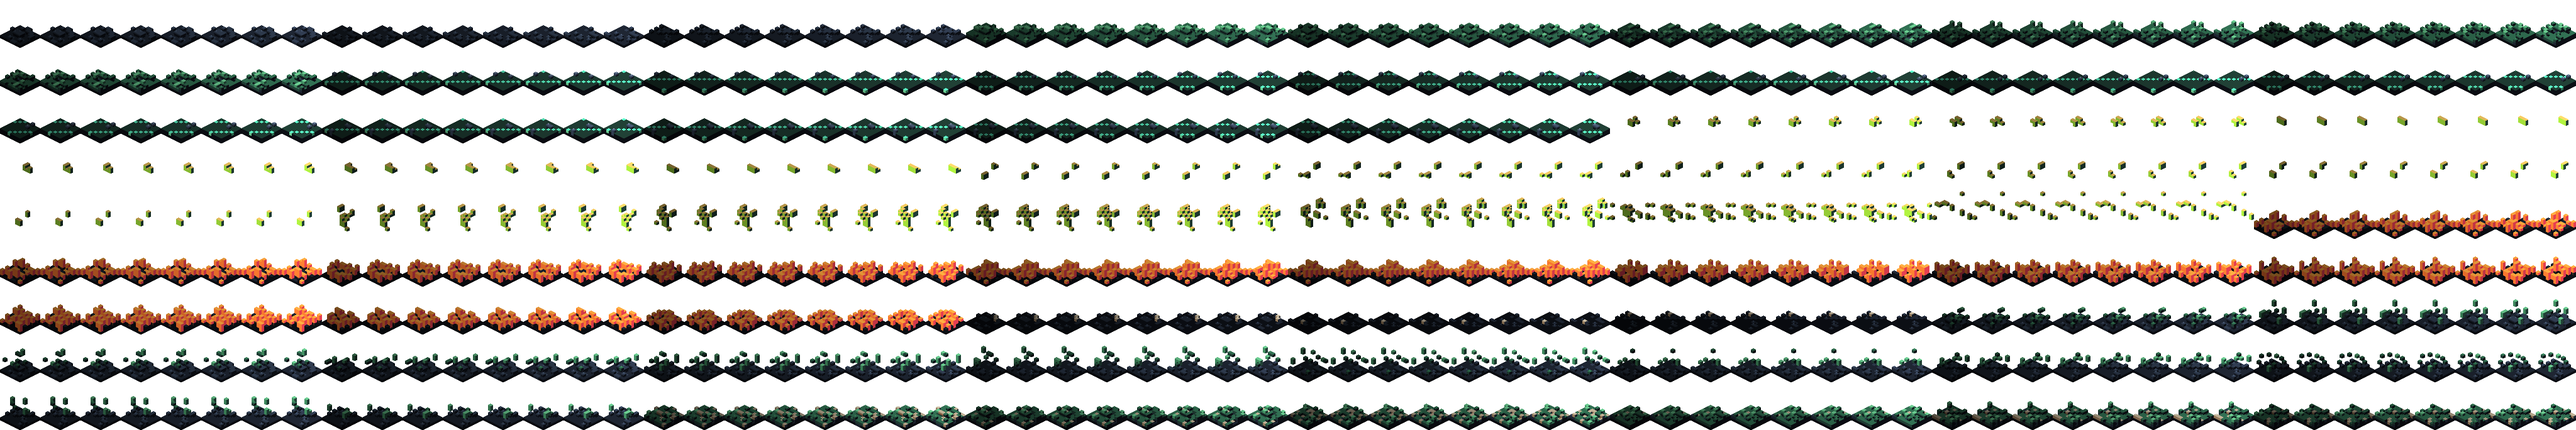
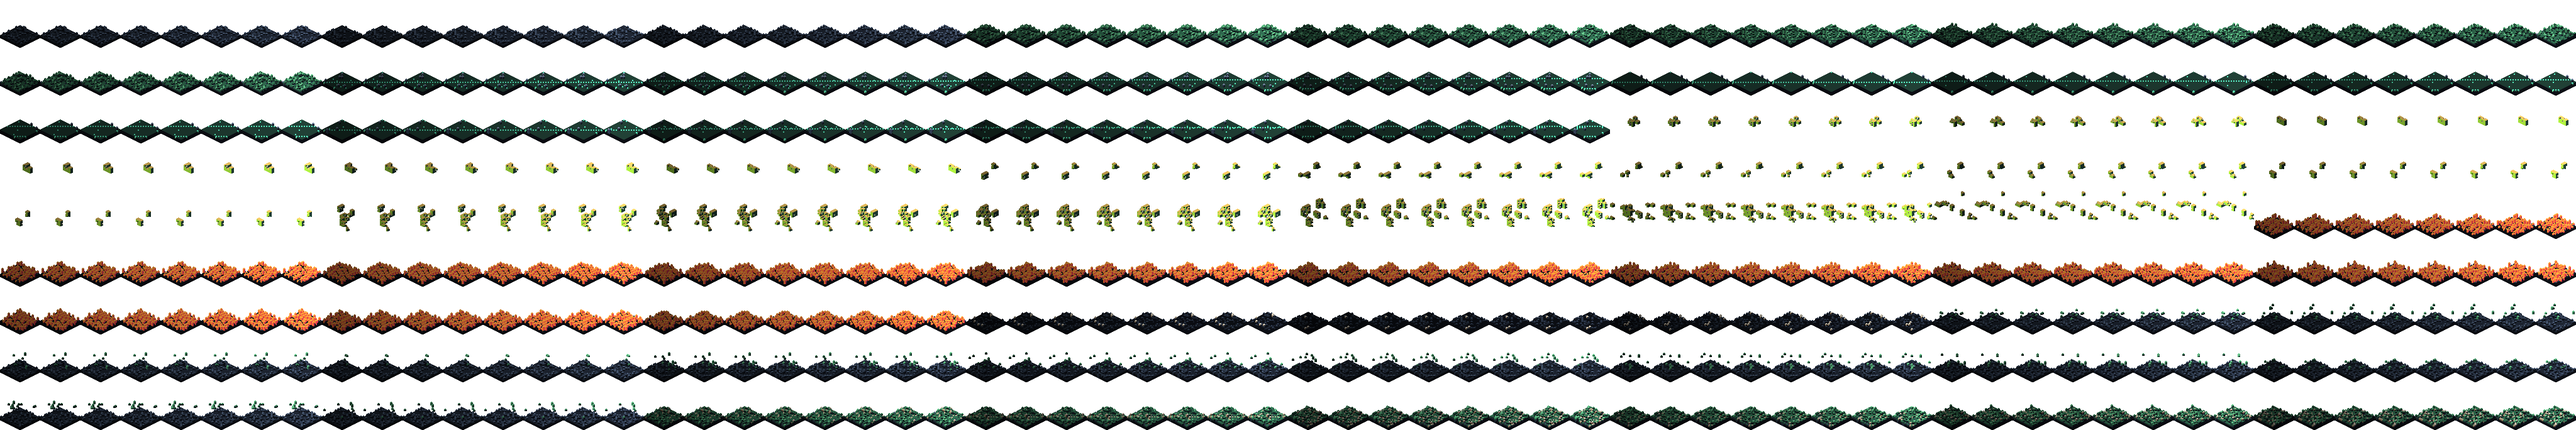
Crostas de chao na grade fina, e a poca ganha bolhas e gotejamento
As cinco materias do chao ainda estavam na densidade antiga: a
subdivisao automatica so engordava cada voxel autorado em 2x2x2 do
mesmo material, sem ganhar textura. Agora sao construidas coluna a
coluna FINA (16x16 por tile), como o terreno:

- Laje: cascalho de meio voxel, o dobro da frequencia; topo na mesma
  altura autorada (entidades assentam onde sempre assentaram).
- Tapete fungico (e o aquecido): musgo de graos 0.5 com pontos vivos
  pulsando; as falhas do tapete ficam finas.
- Poca de biofluido: a lamina vira FILME de meio voxel com reflexo em
  faixa fina e BOLHAS — pontos de biolum que acendem dois quadros e
  estouram, sorteados por coluna fina, no proprio nivel da lamina (o
  contrato "liquido acha nivel unico" e testado e continua valendo).
- Fogo: linguas finas de meio voxel, mais numerosas na mesma massa —
  chama e o que mais ganha com o grao novo.
- Esporos: graos 0.5 recalibrados por medida (modulo 59, contagem
  medida em [4, 14] contra o contrato [3, 16]).
- Gas: excecao deliberada — o algoritmo de sopros continua na grade
  autorada (forma, deriva e cobertura tem contrato de teste nela) e
  cada cubo escolhido vira um aglomerado fino com ~1/5 dos sub-voxels
  roidos por hash: borda esfarrapada, sem tocar na coreografia.

E o gotejamento pedido: parte das celulas de poca (hash) pinga do teto
da caverna — gota que cai acelerando, respingo que salta e dois aneis
concentricos abrindo na lamina. Deterministico por celula e relogio,
[…]

diff --git a/packages/voxelyn-survival/src/client/render.ts b/packages/voxelyn-survival/src/client/render.ts
@@ -1511,6 +1511,30 @@ export class SurvivalRenderer {
       });
     }
 
+    // GOTEJAMENTO DA POCA: goticulas de biofluido caem do teto da caverna
+    // sobre a lamina e abrem ondulacoes concentricas. Deterministico por
+    // celula e relogio — nenhum estado, nenhuma particula: a queda, o respingo
+    // e os aneis saem da fase do ciclo, e cada celula pingante tem ciclo e
+    // ponto proprios (hash). Entra na fila ordenada porque a gota cai ALTO e
+    // precisa ser ocultada por paredes como qualquer corpo.
+    for (let y = y0; y <= y1; y++) {
+      for (let x = x0; x <= x1; x++) {
+        const i = y * w + x;
+        if (state.solid[i] !== SOLID_NONE || state.surface[i] !== SURF_BIOFLUID) continue;
+        const seed = (Math.imul(x, 374761393) ^ Math.imul(y, 668265263)) >>> 0;
+        if (seed % 5 !== 0) continue; // so parte das celulas pinga
+        if (brightness(x, y) <= 0.05) continue;
+        const [sx, sy] = toScreen(x + 0.5, y + 0.5);
+        if (sx < -40 || sx > vw + 40 || sy < -80 || sy > vh + 40) continue;
+        const cycle = 2200 + (seed % 1400);
+        const phase = ((nowMs + (seed % 100000)) % cycle) / cycle;
+        items.push({
+          depth: x + y,
+          draw: () => this.drawPoolDrip(ctx, sx, sy, z, phase, seed),
+        });
+      }
+    }
+
     // Gas: alto demais para o passo de chao, e por ULTIMO na fila.
     //
     // Desenhado no piso, ele saia ANTES de toda parede, entao a parede vizinha
@@ -1731,6 +1755,64 @@ export class SurvivalRenderer {
     ctx.lineTo(tipRx, tipRy);
     ctx.stroke();
     ctx.restore();
+    ctx.globalAlpha = 1;
+  }
+
+  /**
+   * Uma goticula do teto sobre a poca: queda, respingo e ondulacoes.
+   *
+   * A fase [0,1) percorre o ciclo inteiro: ate 0.3 a gota CAI (acelerando, como
+   * gota cai), dai ate 0.85 os aneis abrem na lamina enquanto o respingo salta
+   * e assenta, e o resto do ciclo e silencio — pingo de caverna nao e metronomo.
+   * O ponto de impacto sai do hash da celula, fora do centro, para duas celulas
+   * vizinhas nao pingarem em pontos espelhados.
+   */
+  private drawPoolDrip(
+    ctx: CanvasRenderingContext2D,
+    sx: number,
+    sy: number,
+    z: number,
+    phase: number,
+    seed: number
+  ): void {
+    const jx = sx + ((((seed >>> 3) % 33) - 16) / 33) * TILE_W * 0.6 * z;
+    const jy = sy + ((((seed >>> 9) % 33) - 16) / 33) * TILE_H * 0.5 * z;
+    const FALL_END = 0.3;
+    const RIPPLE_END = 0.85;
+    if (phase < FALL_END) {
+      const t = phase / FALL_END;
+      const drop = t * t; // queda livre: comeca lenta, chega rapida
+      const yPos = jy - 2.4 * WALL_H * z * (1 - drop);
+      ctx.fillStyle = PAL.biolum;
+      // fio fino se alongando: a gota estica conforme ganha velocidade
+      ctx.globalAlpha = 0.4 + drop * 0.5;
+      ctx.fillRect(jx - z * 0.5, yPos - (2 + drop * 3) * z, z, (2 + drop * 3) * z);
+      ctx.globalAlpha = 1;
+      return;
+    }
+    if (phase >= RIPPLE_END) return;
+    const t = (phase - FALL_END) / (RIPPLE_END - FALL_END);
+    // Dois aneis concentricos defasados, achatados na proporcao do losango.
+    ctx.strokeStyle = PAL.biolum;
+    ctx.lineWidth = Math.max(1, z * 0.8);
+    for (const [delay, gain] of [[0, 0.55], [0.3, 0.35]] as const) {
+      const tt = (t - delay) / (1 - delay);
+      if (tt <= 0 || tt >= 1) continue;
+      ctx.globalAlpha = (1 - tt) * gain;
+      ctx.beginPath();
+      ctx.ellipse(jx, jy, tt * TILE_W * 0.34 * z, tt * TILE_H * 0.34 * z, 0, 0, Math.PI * 2);
+      ctx.stroke();
+    }
+    // Respingo do impacto: duas goticulas saltando e recaindo no primeiro
+    // quarto da fase de ondulacao.
+    if (t < 0.28) {
+      const st = t / 0.28;
+      const hop = Math.sin(st * Math.PI);
+      ctx.fillStyle = PAL.biolum;
+      ctx.globalAlpha = 0.85 * (1 - st * 0.6);
+      ctx.fillRect(jx - 1.6 * z, jy - hop * 3.2 * z - z, z, z);
+      ctx.fillRect(jx + 0.8 * z, jy - hop * 2.2 * z - z, z, z);
+    }
     ctx.globalAlpha = 1;
   }
 
